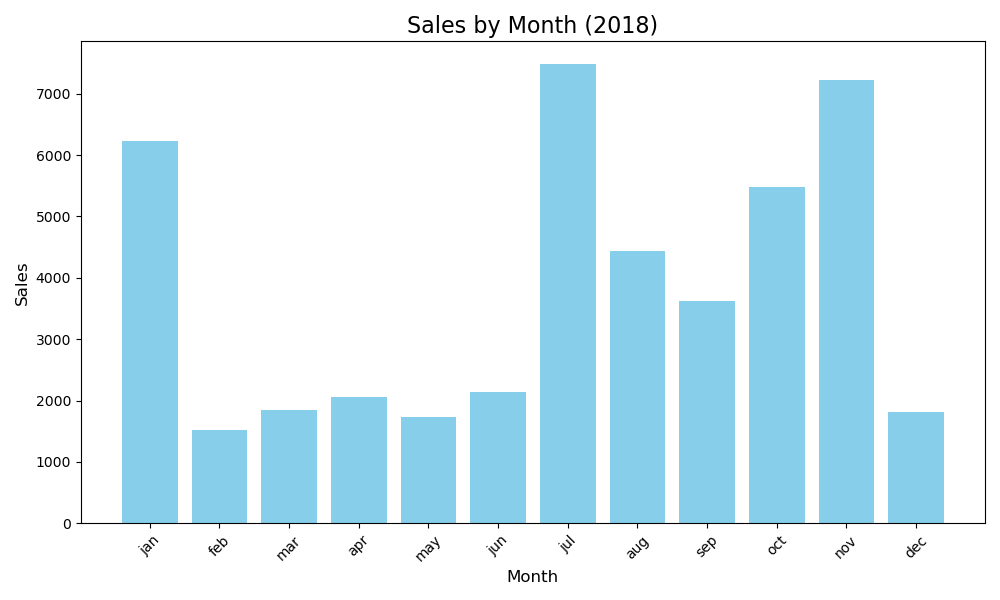
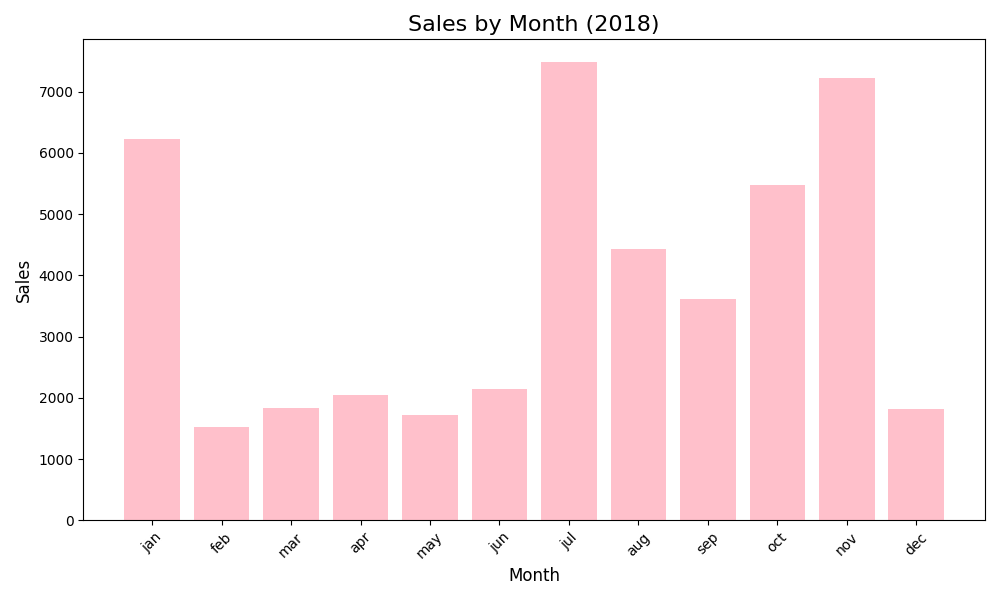
Organized files

diff --git a/app.py b/app.py
@@ -1,12 +1,9 @@
+# Project Name  : Spreadsheet Analysis
+# Created on    : 09/01/2025
+# Definition    : Using Python to do very basic data analysis on a spreadsheet.
 
 #Before running the file run these commands in your pycharm terminal
-#pip install matplotlib
-
-#Issues we faced:
-#pycharm - pip command not working as version number not installed (needed pip3)
-#needed to install pandas and matplotlib + openpyxl
-#replit only allowed two members (one contributor)
-#github issue - cloning project to pycharm and pushing project to github so we could all contribute
+#pip install matplotlib pandas
 
 import pandas as pd
 import matplotlib.pyplot as plt
@@ -18,42 +15,27 @@ df = pd.read_csv(input_file)
 
 # 2. Collect all of the sales from each month into a single list
 sales_by_month_list = df['sales'].to_list()
-sales_by_month = df.groupby('month')['sales'].apply(list).reset_index()
-
-# Convert the result to a dictionary if needed
-sales_by_month_dict = sales_by_month.to_dict()
 
 # 3. Output the total sales across all months
 total_sales = df['sales'].sum()
 
 # Calculate average sales
 average_sales =df['sales']. mean()
+
 # Monthly Sales as Percentage of Total Sales.
 df['Sales Percentage (%)'] = ((df['sales'] / total_sales) * 100).round(2)
-print("\nMonthly Sales Percentage:")
-print(df[['month', 'Sales Percentage (%)']])
+
 # Percentage of changes per month
 df['Monthly Change (%)'] =(df['sales']. pct_change() * 100).round(2)
-print("\nMonthly Sales Changes Percentage:")
-print(df[['month', 'Monthly Change (%)']])
+
 # Identify the months with the highest and lowest sales
 highest_sales = df.loc[df['sales'].idxmax()]
 lowest_sales = df.loc[df['sales'].idxmin()]
 
 
-# Prepare findings for export
-findings = pd.DataFrame({
-    'Metric': ['Sales by Month', 'Total Sales'],
-    'Details': [str(sales_by_month['sales'].tolist()), total_sales]
-})
-
-# Save findings to an Excel file
-output_file = "sales_findings.xlsx"
-findings.to_excel(output_file, index=False)
-
 # Create a bar chart for sales by month
 plt.figure(figsize=(10, 6))
-plt.bar(df['month'], df['sales'], color='skyblue')
+plt.bar(df['month'], df['sales'], color='pink')
 plt.title('Sales by Month (2018)', fontsize=16)
 plt.xlabel('Month', fontsize=12)
 plt.ylabel('Sales', fontsize=12)
@@ -65,21 +47,39 @@ chart_file = "sales_by_month_chart.png"
 plt.savefig(chart_file)
 
 print('Read the sales data file')
-print('Read the sales data file:{}'.format(df.info()))
+print('\nRead the sales data file:{}'.format(df.info()))
 
 # Answer 2(c)
-print('Sales for each month in a list: {}'.format(sales_by_month_list))
+print('\nSales for each month in a list: {}'.format(sales_by_month_list))
 # Answer 3
-print('Total sales in a month:{}'.format(total_sales))
+print('\nTotal sales in a month:{}'.format(total_sales))
 
 # Sales Analysis Summary
-print(f"Average Sales: {average_sales:.2f}")
-print(f"Month with Highest Sales: {highest_sales['month']} ({highest_sales['sales']})")
-print(f"Month with Lowest Sales: {lowest_sales['month']} ({lowest_sales['sales']})")
-print(f"Findings exported to {output_file}")
+print(f"\nAverage Sales: {average_sales:.0f}")
+print(f"\nMonth with Highest Sales: {highest_sales['month']} ({highest_sales['sales']})")
+print(f"\nMonth with Lowest Sales: {lowest_sales['month']} ({lowest_sales['sales']})")
+# print(f"\nFindings exported to {output_file}")
+
+print("\nMonthly Sales Percentage:")
+print(df[['month', 'Sales Percentage (%)']])
+
 
 # Display the chart
 plt.show()
+
+
+
+
+# Prepare findings for export
+# findings = pd.DataFrame({
+#     'Metric': ['Sales by Month', 'Total Sales'],
+#     'Details': [str(sales_by_month_list['sales'].tolist()), total_sales]
+# })
+
+# Save findings to an Excel file
+# output_file = "sales_findings.xlsx"
+# findings.to_excel(output_file, index=False)
+
 
 
 
